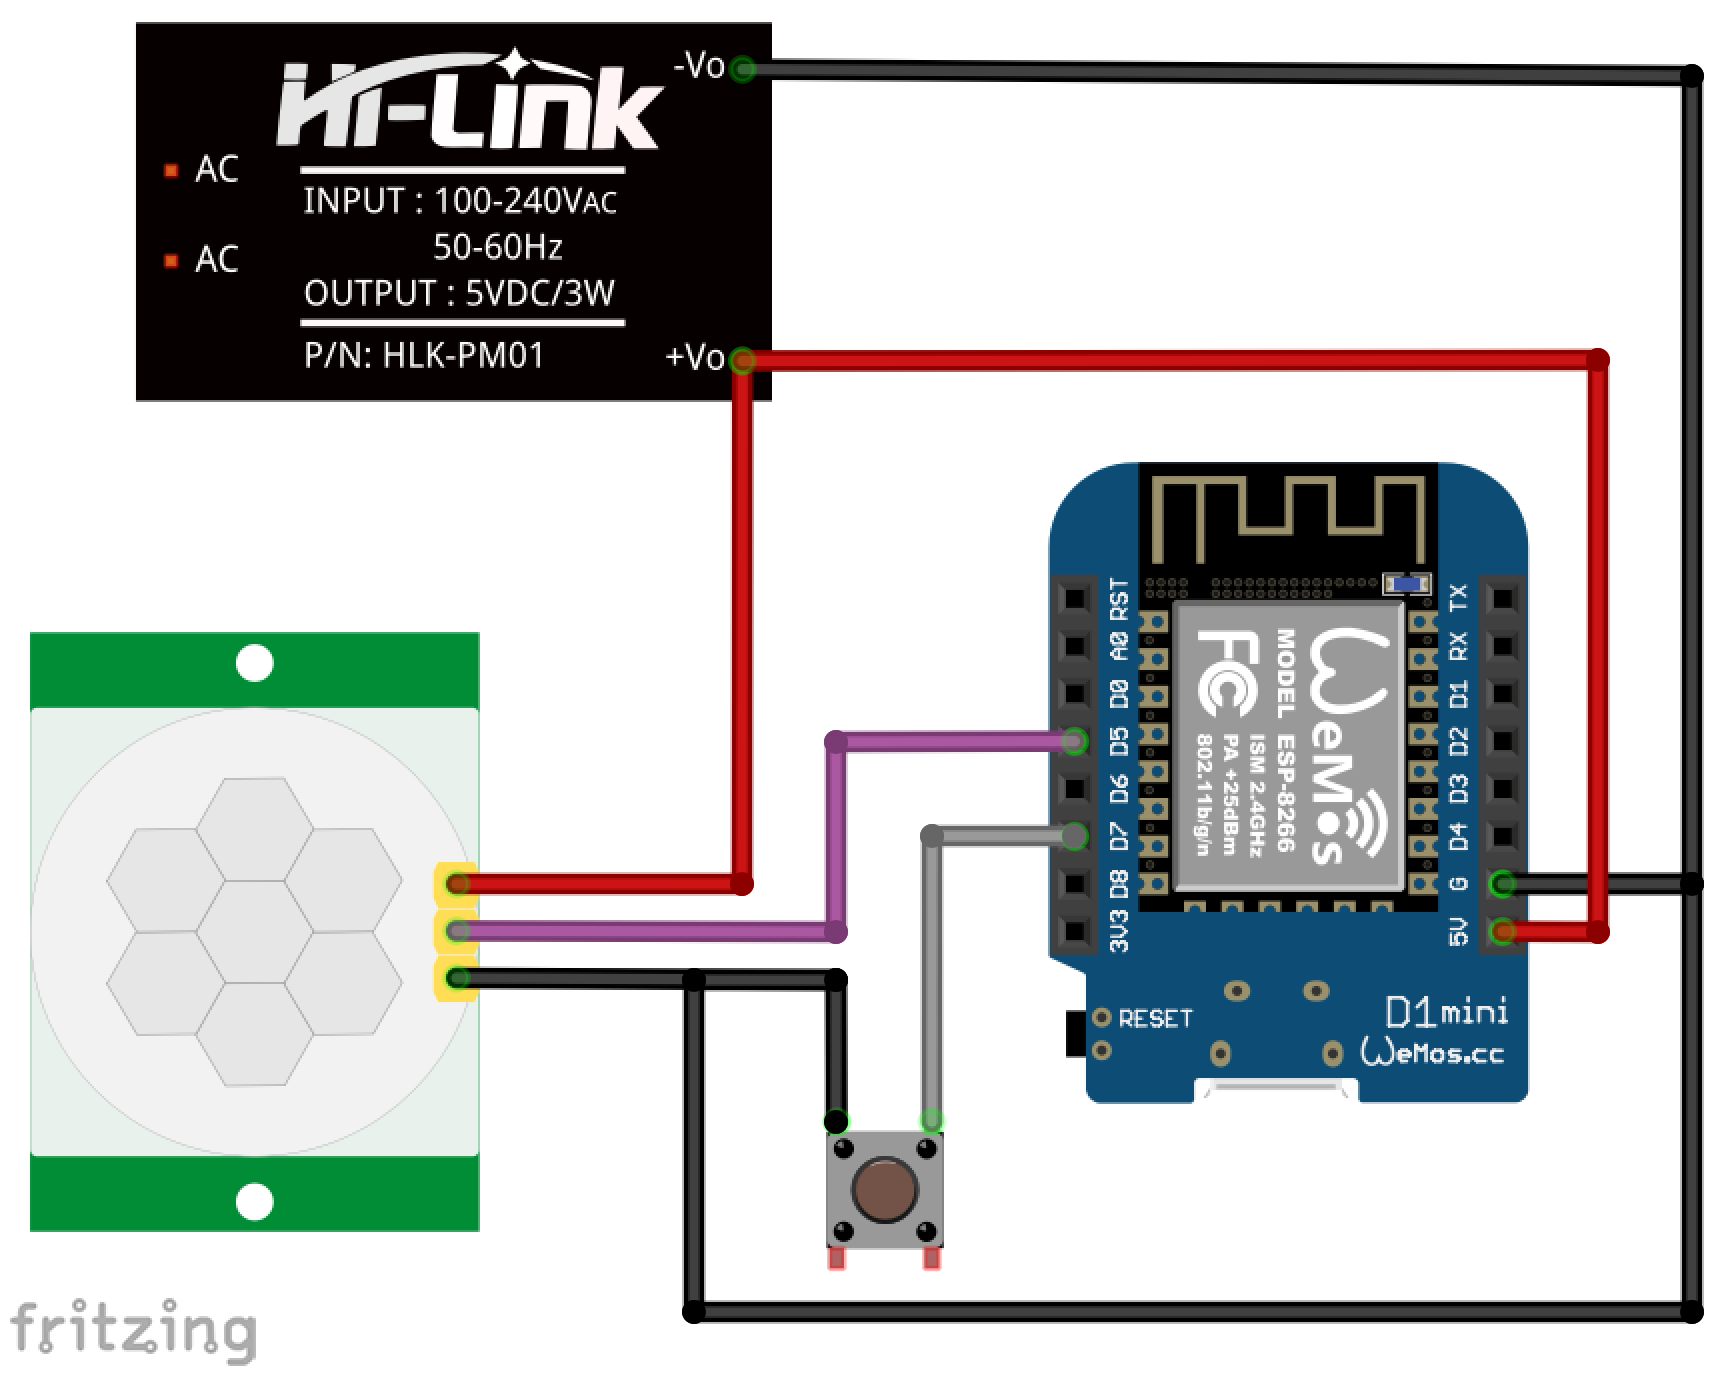
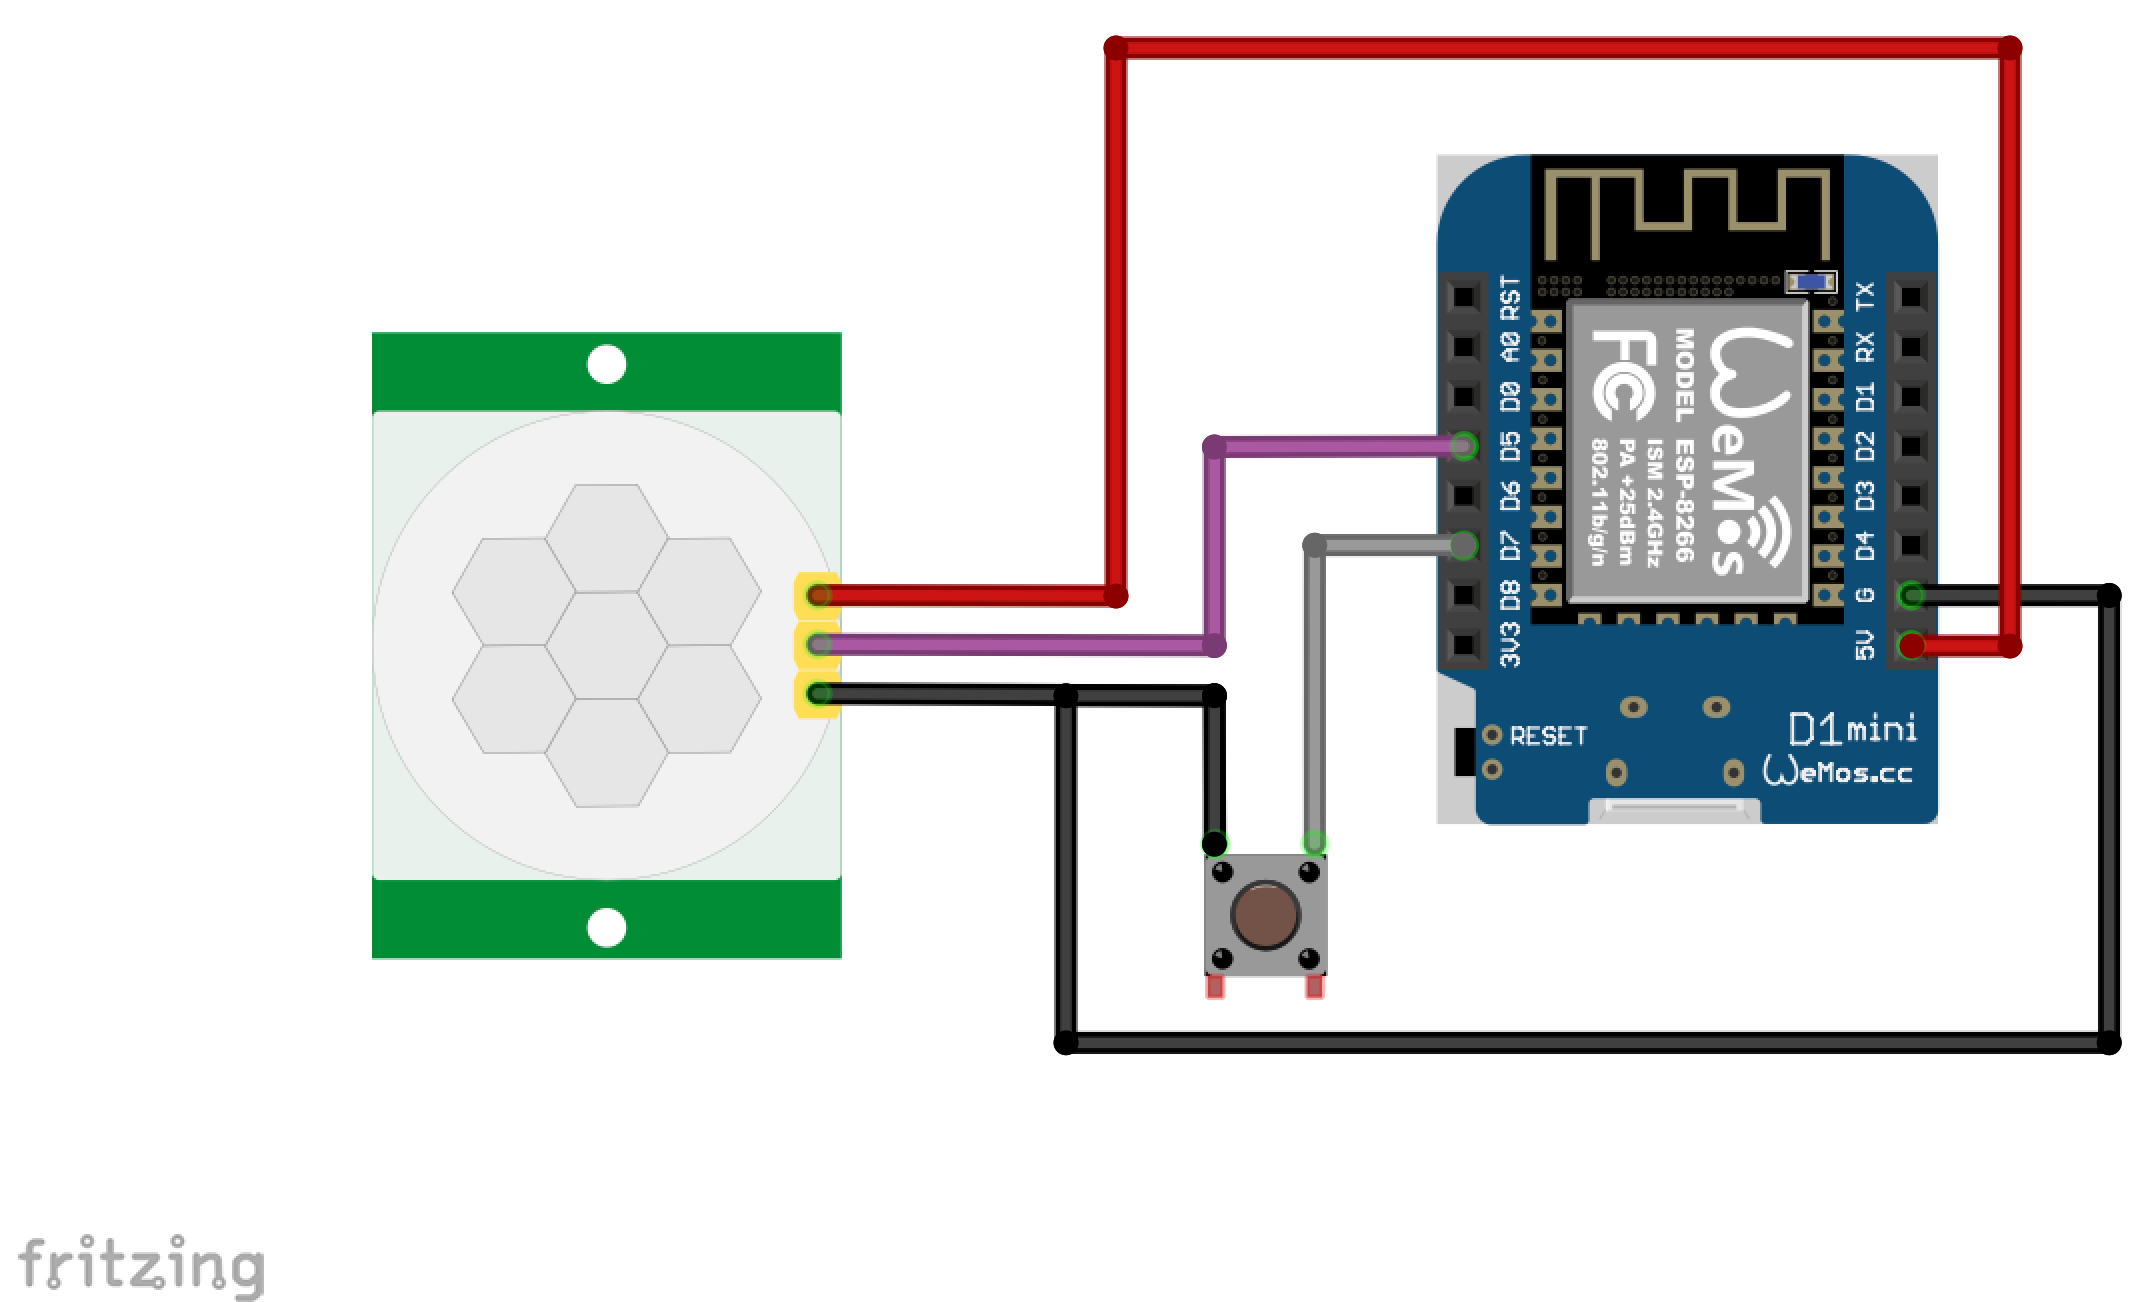
modified README

diff --git a/README.md b/README.md
@@ -4,7 +4,7 @@
 - Wemos D1 Mini
 - 1 HC-SR501 PIR Bewegungsmelder
 - 1 Taster (nicht dauerhaft, nur um bei erster Inbetriebnahme / Änderungen den Konfigurationsmodus zu starten)
-- Stromversorgung (z.B. HLK-PM01)
+- Stromversorgung (z.B. 5V USB-Netzteil)
 
 ![Anschlussplan](Images/wiring.png)
 ## Flashen
@@ -50,8 +50,4 @@ Geschieht dies nicht nach ein paar Sekunden, ist im Browser die Seite http://192
 ## PIR Bewegungsmelder einstellen:
 Die Haltezeit und sowie die Empfindlichkeit können an den beiden Potentiometern eingestellt werden.
 Eine Beschreibung lässt sich schnell bei Google finden, bzw. im [Datenblatt](https://www.mpja.com/download/31227sc.pdf) nachlesen.
-
-# HINWEIS:
-Zur eigenen Sicherheit sollte das Netzteil-Modul noch eine "Sicherheitsbeschaltung" bekommen, da gerade beim Einbau in geschlossenen Gehäusen/Unterputz die entstehende Wärme nicht ideal abgeleitet werden kann.
-![Schutzschaltung](https://forum.mysensors.org/uploads/files/1451436409274-hlk-pm01-wiring.jpg)
 
